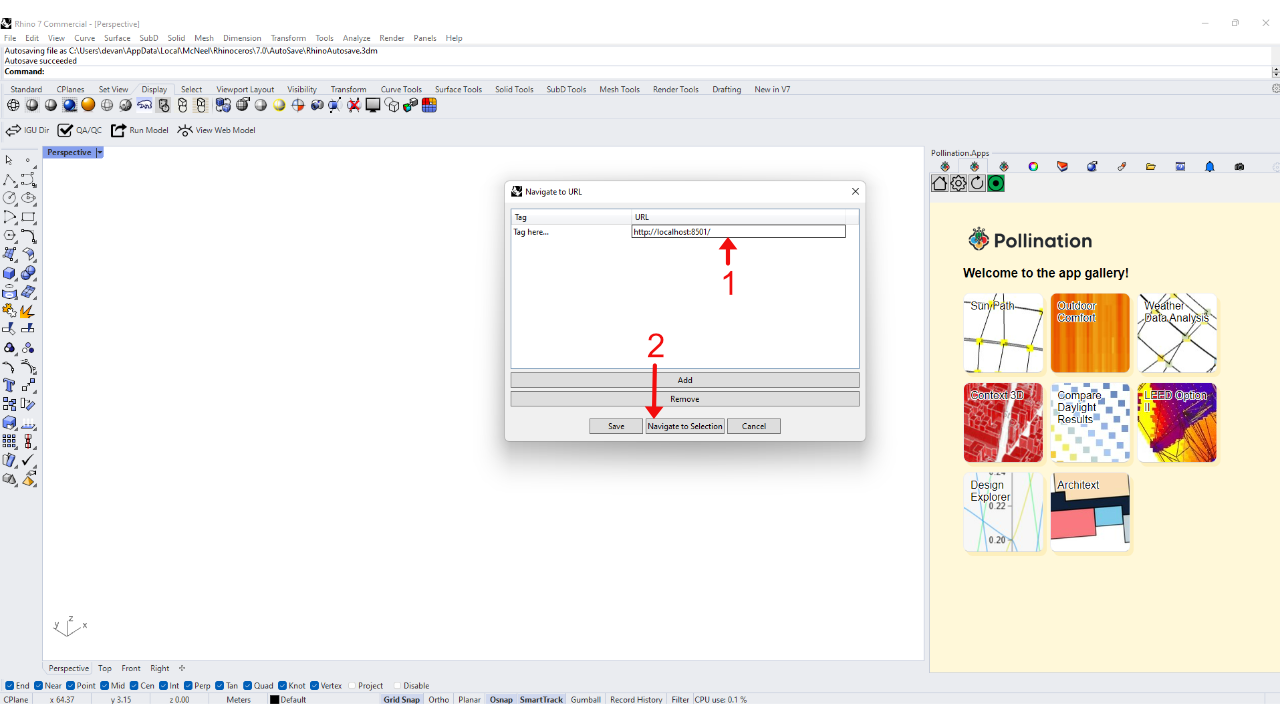
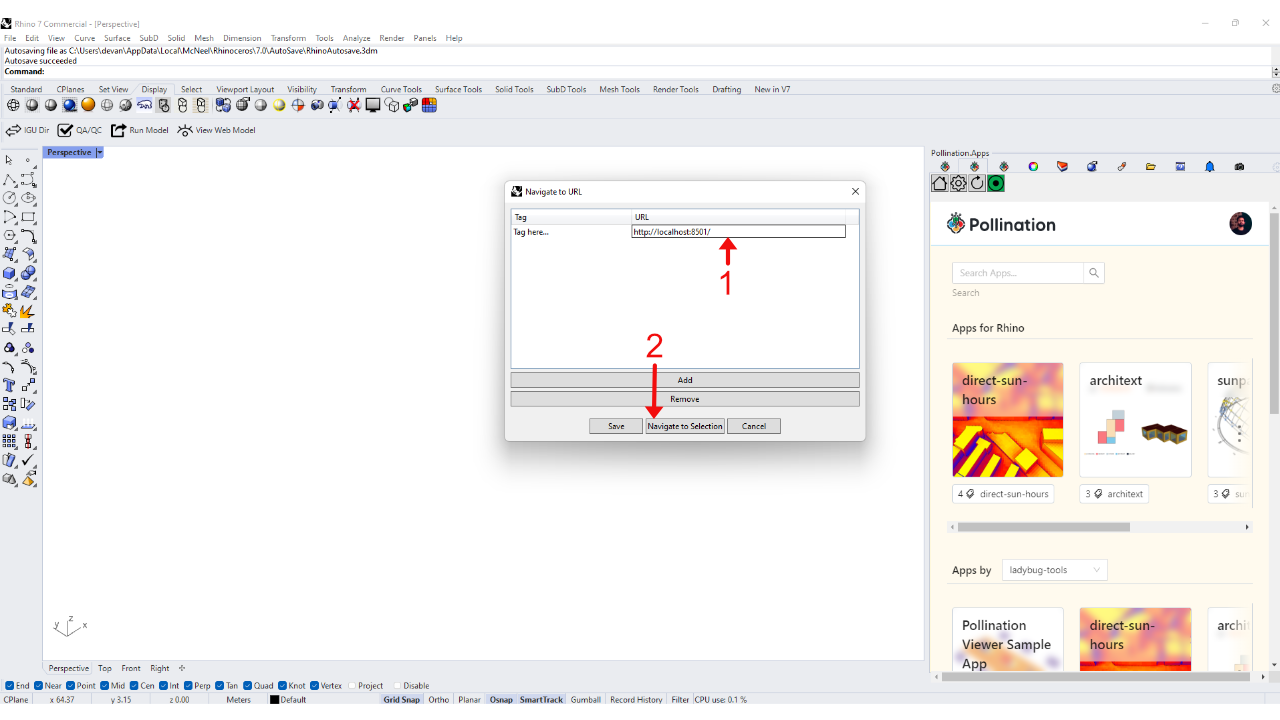
docs(*): update rhino_plugin homepage images

Changed region(s): [[0.7188, 0.275, 1.0, 0.9472], [0.5625, 0.3667, 0.5938, 0.3972], [0.5, 0.4583, 0.5312, 0.4889]]

diff --git a/apps/visualize-rhino.md b/apps/visualize-rhino.md
@@ -6,7 +6,7 @@ In [this](download-output.md) section, we downloaded the "visualization" output 
 
 Using the steps mentioned [here](download-output.md), download the "results" output of the daylight-factor study instead of the "visualization" output.
 
-![](../.gitbook/assets/pollination-apps/output\_results.png)
+![](../.gitbook/assets/pollination-apps/output_results.png)
 
 This should give you a results folder with the following structure:
 
@@ -213,27 +213,27 @@ http://localhost:8501/
 
 If you don't have already, download the Pollination Rhino plugin from [here](https://www.pollination.cloud/rhino-plugin). Once you install the Rhino plugin, you should see the tabs for "Pollination" and "Pollination.Apps" in the sidebar of Rhino. If you don't, click on the gear icon shown in the image below;&#x20;
 
-![](../.gitbook/assets/pollination-apps/rhino\_start.png)
+![](../.gitbook/assets/pollination-apps/rhino_start.png)
 
 Select the "Pollination" and "Pollination.Apps" on the menu that opens up&#x20;
 
-![](../.gitbook/assets/pollination-apps/rhino\_add\_pollination.png)
+![](../.gitbook/assets/pollination-apps/rhino_add_pollination.png)
 
 Next, click on the gear icon in Pollination.Apps. This will open up a new window.&#x20;
 
-![](../.gitbook/assets/pollination-apps/rhino\_load\_panel.png)
+![](../.gitbook/assets/pollination-apps/rhino_load_panel.png)
 
 In the panel, add the URL where the app is running and click on "Navigate to selection".&#x20;
 
-![](../.gitbook/assets/pollination-apps/rhino\_add\_url.png)
+![](../.gitbook/assets/pollination-apps/rhino_add_url.png)
 
 This should show the app inside Rhino.
 
-![](../.gitbook/assets/pollination-apps/rhino\_show\_app.png)
+![](../.gitbook/assets/pollination-apps/rhino_show_app.png)
 
 Enter, the following values assuming the HBJSON file and the results are present in the current working directory. If not, provide full path to both.
 
-![](../.gitbook/assets/pollination-apps/rhino\_enter\_values.png)
+![](../.gitbook/assets/pollination-apps/rhino_enter_values.png)
 
 ### Visualization in Rhino
 
